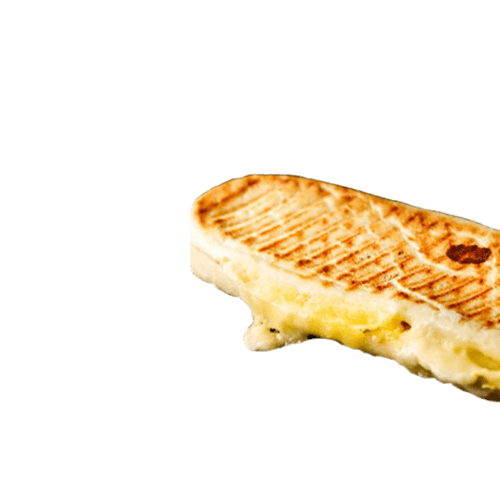
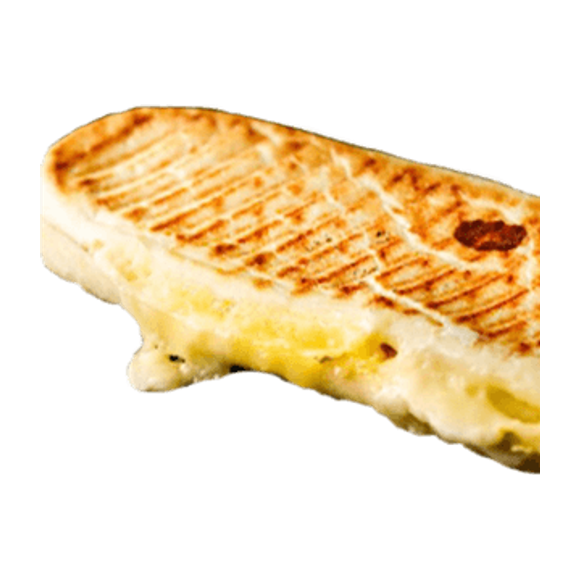
Commande fermée hors horaires (boutons grisés), carrousels centrés sans pause, squelettes de chargement, photo panini recentrée, mode test TEST_IGNORE_HOURS

diff --git a/app/src/app/globals.css b/app/src/app/globals.css
@@ -99,6 +99,8 @@ ul { margin: 0; padding: 0; list-style: none; }
 .btn--xl { min-height: 60px; padding: 0 28px; font-size: 1.6rem; border-radius: 12px; }
 .btn--block { width: 100%; }
 .btn[disabled], .btn[aria-disabled="true"], .btn.is-disabled { opacity: .45; pointer-events: none; }
+/* Bouton grisé sur fond noir (accueil) : reste lisible */
+.hero .btn.is-disabled { opacity: 1; color: rgba(255,255,255,.75); border-color: rgba(255,255,255,.3); background: rgba(255,255,255,.06); }
 .btn--text { font-family: var(--text); text-transform: none; letter-spacing: 0; font-weight: 600; font-size: 1rem; min-height: 44px; color: var(--red); }
 
 /* ---------- Bandeau de confiance ---------- */
@@ -1097,6 +1099,16 @@ body.is-locked { overflow: hidden; }
 .rail__btn--next { right: 0; }
 /* Écran tactile ou téléphone : on fait défiler au doigt, les flèches masqueraient les cartes */
 @media (hover: none), (max-width: 719px) { .rail__btn { display: none; } }
+/* Avec une souris : les flèches dans les marges, jamais sur les cartes, et les cartes centrées */
+@media (min-width: 720px) and (hover: hover) {
+  .rail.has-arrows { padding: 0 56px; }
+  .rail.has-arrows > .scroller, .rail.has-arrows > .offer-rail { margin: 0; padding-left: 0; padding-right: 0; scroll-padding-inline: 0; }
+  .rail.has-arrows > .scroller > *, .rail.has-arrows > .offer-rail > * { scroll-snap-align: center; }
+  .rail__btn { top: 50%; transform: translateY(-50%); }
+}
+.rail:not(.has-arrows) .rail__btn { display: none; }
+/* Un seul visuel : pleine largeur, pas de défilement */
+.offer-rail--single > * { flex-basis: 100% !important; }
 /* Burger seul / menu : deux prix côte à côte, plus petits pour tenir dans une carte étroite */
 .card__prices { display: flex; gap: 10px; min-width: 0; }
 .card__prices .price { font-size: 1.2rem; }
@@ -1345,3 +1357,21 @@ body.is-locked { overflow: hidden; }
 .nearest__item { display: grid; gap: 6px; align-content: start; }
 .nearest__dist { justify-self: start; font-size: .8rem; font-weight: 700; color: var(--ink-2); background: var(--white); border: 1px solid var(--grey-2); border-radius: 999px; padding: 3px 10px; }
 .nearest__dist.is-first { background: var(--black); color: #fff; border-color: var(--black); }
+
+/* ---------- Chargement : squelettes ---------- */
+.sr-only { position: absolute; width: 1px; height: 1px; padding: 0; margin: -1px; overflow: hidden; clip: rect(0 0 0 0); white-space: nowrap; border: 0; }
+.sk { display: inline-block; vertical-align: middle; background: linear-gradient(90deg, var(--grey-2) 0%, #f1f1ee 40%, var(--grey-2) 80%); background-size: 300% 100%; }
+@media (prefers-reduced-motion: no-preference) { .sk { animation: skShine 1.3s ease-in-out infinite; } }
+@keyframes skShine { from { background-position: 100% 0; } to { background-position: 0 0; } }
+.sk-wrap { max-width: var(--max); margin-inline: auto; display: grid; justify-items: start; }
+.sk-wrap > .sk-grid, .sk-wrap > .resto-grid { width: 100%; }
+.sk-grid { display: grid; grid-template-columns: repeat(2, 1fr); gap: 12px; }
+.sk-card { background: var(--white); border-radius: var(--radius); overflow: hidden; }
+.sk-panel { background: var(--white); border-radius: var(--radius); padding: 14px; display: grid; gap: 10px; }
+.sk-menu { padding: 16px var(--page-x) 0; display: grid; gap: 16px; }
+.sk-menu__side { display: none; }
+@media (min-width: 720px) { .sk-grid { grid-template-columns: repeat(3, 1fr); } }
+@media (min-width: 1024px) {
+  .sk-menu { max-width: 1320px; margin-inline: auto; grid-template-columns: 220px minmax(0, 1fr); gap: 24px; padding-top: 20px; }
+  .sk-menu__side { display: grid; gap: 10px; align-content: start; }
+}

diff --git a/app/src/components/site/Slides.tsx b/app/src/components/site/Slides.tsx
@@ -60,17 +60,16 @@ function Dots({ slides, index, onPick, label }: { slides: SlideView[]; index: nu
   );
 }
 
-/* Grand diaporama : défilement auto, swipe, pause au survol */
+/* Grand diaporama : défilement auto, swipe, pause au survol, au toucher et au focus clavier */
 export function PromoCarousel({ slides }: { slides: SlideView[] }) {
   const [i, setI] = useState(0);
   const [hover, setHover] = useState(false);
-  const [userPaused, setUserPaused] = useState(false);
   const reduce = useReducedMotion();
   const startX = useRef(0);
   const dragged = useRef(false);
   const count = slides.length;
   const index = count ? ((i % count) + count) % count : 0;
-  const paused = hover || userPaused;
+  const paused = hover; // pause au survol, au doigt et au clavier (le bouton pause a été retiré)
 
   useEffect(() => {
     if (paused || reduce || count < 2) return;
@@ -99,8 +98,9 @@ export function PromoCarousel({ slides }: { slides: SlideView[] }) {
     >
       <div
         className="stage__viewport"
-        onTouchStart={e => { startX.current = e.touches[0].clientX; dragged.current = false; }}
+        onTouchStart={e => { startX.current = e.touches[0].clientX; dragged.current = false; setHover(true); }}
         onTouchEnd={e => {
+          window.setTimeout(() => setHover(false), 5000); // reprend 5 s après le toucher
           const dx = e.changedTouches[0].clientX - startX.current;
           if (Math.abs(dx) < 48) return;
           dragged.current = true;
@@ -129,7 +129,6 @@ export function PromoCarousel({ slides }: { slides: SlideView[] }) {
           <button type="button" className="stage__nav" aria-label="Offre précédente" onClick={() => go(-1)}><Icon name="back" /></button>
           <Dots slides={slides} index={index} onPick={setI} label="Offres à l'affiche" />
           <button type="button" className="stage__nav" aria-label="Offre suivante" onClick={() => go(1)}><Icon name="chevron" /></button>
-          <button type="button" className="stage__pause" aria-pressed={userPaused} onClick={() => setUserPaused(v => !v)}>{userPaused ? 'Lecture' : 'Pause'}</button>
         </div>
       )}
       {count > 1 && !reduce && !paused && <div className="stage__progress" aria-hidden="true"><span key={index} /></div>}
@@ -180,10 +179,11 @@ export function PromoPanels({ slides }: { slides: SlideView[] }) {
     el.scrollBy({ left: dir * Math.max(220, el.clientWidth * 0.8), behavior });
   };
   if (!slides.length) return null;
+  const single = slides.length === 1; // un seul visuel : pas de carrousel
   return (
-    <div className="rail">
+    <div className={`rail ${single ? '' : 'has-arrows'}`}>
       <button type="button" className="rail__btn rail__btn--prev" aria-label="Offres précédentes" onClick={() => scroll(-1)}><Icon name="back" /></button>
-      <div className="offer-rail" ref={ref}>
+      <div className={`offer-rail ${single ? 'offer-rail--single' : ''}`} ref={ref}>
         {slides.map(s => (
           <SlideLink key={s.id} href={s.ctaHref} className={`offer tone-${s.tone.toLowerCase()} ${s.imageUrl ? 'offer--photo' : ''}`}>
             {s.imageUrl && <img className="offer__img" src={s.imageUrl} alt="" />}

diff --git a/app/src/components/checkout/Checkout.tsx b/app/src/components/checkout/Checkout.tsx
@@ -126,7 +126,8 @@ export function Checkout({ step, ctx }: { step: Step; ctx: CheckoutContext }) {
   const blocking = quote?.errors ?? [];
   const zoneMissing = effectiveMode === 'LIVRAISON' && !zone;
   const minMissing = quote?.totals.minimumMissing ?? 0;
-  const canContinue = !!quote && !loading && !blocking.length && ctx.orderingEnabled;
+  // Hors horaires, la commande est fermée (CDC) : le bouton de paiement est grisé
+  const canContinue = !!quote && !loading && !blocking.length && ctx.orderingEnabled && win?.status.open !== false;
   const total = quote?.totals.total ?? cart.subtotal;
 
   const modePanel = (
@@ -233,7 +234,7 @@ export function Checkout({ step, ctx }: { step: Step; ctx: CheckoutContext }) {
       setErrors(e);
       const bad = Object.entries(e).find(([, v]) => v);
       if (bad) { toast('Vérifiez les champs en rouge'); document.querySelector<HTMLElement>('.field.is-invalid input, .field.is-invalid select')?.focus(); return false; }
-      if (!win?.status.open && checkout.slot === 'asap') { toast('Le restaurant est fermé, choisissez un créneau'); return false; }
+      if (!win?.status.open) { toast('Le restaurant est fermé : les commandes en ligne reprennent à l\'ouverture.'); return false; }
       return true;
     };
     const field = (k: keyof CheckoutInfo) => ({ value: checkout[k] as string, onChange: (e: React.ChangeEvent<HTMLInputElement | HTMLTextAreaElement>) => { updateCheckout({ [k]: e.target.value }); if (errors[k]) setErrors(x => ({ ...x, [k]: false })); } });
@@ -272,7 +273,7 @@ export function Checkout({ step, ctx }: { step: Step; ctx: CheckoutContext }) {
                 ))}
               </div>
             )}
-            {win && !win.status.open && <p className="mode-note"><Icon name="clock" /><span>{win.status.label}. {win.slots.length ? 'Vous pouvez précommander pour plus tard.' : 'Les commandes rouvrent à l\'ouverture.'}</span></p>}
+            {win && !win.status.open && <p className="alert alert--error" style={{ marginTop: 0 }}><Icon name="clock" /><span>{win.status.label}. Les commandes en ligne reprennent à l&apos;ouverture.</span></p>}
           </div>
 
           {effectiveMode === 'LIVRAISON' && (

diff --git a/app/src/lib/hours.ts b/app/src/lib/hours.ts
@@ -36,7 +36,14 @@ export interface OpenStatus {
   label: string;
 }
 
+/* Tests hors horaires : TEST_IGNORE_HOURS=1 (fichier .env.local) ouvre tous les restaurants.
+   Actif seulement avec une clé Stripe de test, jamais sur le site en production réelle. */
+export function hoursIgnoredForTests(): boolean {
+  return typeof window === 'undefined' && process.env.TEST_IGNORE_HOURS === '1' && !!process.env.STRIPE_SECRET_KEY?.startsWith('sk_test_');
+}
+
 export function openStatus(hours: DayHours[], now: Date = new Date()): OpenStatus {
+  if (hoursIgnoredForTests()) return { open: true, label: 'Ouvert (mode test, horaires ignorés)' };
   const { day, minutes } = parisClock(now);
   const today = hours.find(h => h.dayOfWeek === day);
   if (today?.isOpen) {
@@ -54,7 +61,7 @@ export function openStatus(hours: DayHours[], now: Date = new Date()): OpenStatu
 /* Créneaux du jour (heure de Paris, "HH:MM"), à partir de maintenant + délai de préparation */
 export function timeSlots(hours: DayHours[], leadMinutes: number, interval = 15, now: Date = new Date(), limit = 12): string[] {
   const { day, minutes } = parisClock(now);
-  const today = hours.find(h => h.dayOfWeek === day);
+  const today = hoursIgnoredForTests() ? { isOpen: true, open: '00:00', close: '00:00' } : hours.find(h => h.dayOfWeek === day);
   if (!today?.isOpen) return [];
   const o = toMinutes(today.open), c = toMinutes(today.close, true);
   let start = Math.ceil((minutes + leadMinutes) / interval) * interval;

diff --git a/app/src/components/restaurants/RestaurantCard.tsx b/app/src/components/restaurants/RestaurantCard.tsx
@@ -17,9 +17,12 @@ export function RestaurantCard({ r, current, next }: { r: RestaurantWithHours; c
       <p className="resto-card__addr"><Icon name="pin" /> {r.addressLine1}, {r.postalCode} {r.city}</p>
       <p className="resto-card__hours"><Icon name="clock" /> Aujourd&apos;hui : {today?.isOpen ? `${hmLabel(today.open)} à ${hmLabel(today.close)}` : 'fermé'}</p>
       <div className="actions-row">
-        {r.orderingEnabled
-          ? <Link className="btn btn--primary" href={order} prefetch={false}>{current ? 'Continuer ici' : 'Commander ici'}</Link>
-          : <span className="btn btn--ghost is-disabled" aria-disabled="true">Commande en ligne bientôt</span>}
+        {!r.orderingEnabled
+          ? <span className="btn btn--ghost is-disabled" aria-disabled="true">Commande en ligne bientôt</span>
+          : !status.open
+            // Hors horaires : commande fermée (CDC), bouton grisé avec l'heure de réouverture
+            ? <span className="btn btn--ghost is-disabled" aria-disabled="true">{status.label}</span>
+            : <Link className="btn btn--primary" href={order} prefetch={false}>{current ? 'Continuer ici' : 'Commander ici'}</Link>}
         <Link className="btn btn--dark" href={`/restaurants/${r.slug}`}>Infos et accès</Link>
       </div>
       {current && <span className="resto-card__current">Votre restaurant</span>}

diff --git a/app/src/app/(site)/restaurants/[slug]/page.tsx b/app/src/app/(site)/restaurants/[slug]/page.tsx
@@ -40,9 +40,11 @@ export default async function RestaurantPage({ params }: { params: Promise<{ slu
           {r.intro || `Tacos à composer, burgers, pizzas (1 achetée = 1 offerte), bowls et Crousty Fox, préparés au ${r.addressLine1} à ${r.city}. Commandez en ligne, payez par carte et récupérez votre commande au créneau choisi.`}
         </p>
         <div className="actions-row" style={{ maxWidth: 'var(--max)', marginInline: 'auto', marginTop: 14 }}>
-          {r.orderingEnabled
-            ? <Link className="btn btn--primary btn--xl" href={`/r/${r.slug}`} prefetch={false}>Commander à {r.city}</Link>
-            : <span className="btn btn--ghost is-disabled" aria-disabled="true">Commande en ligne bientôt disponible</span>}
+          {!r.orderingEnabled
+            ? <span className="btn btn--ghost btn--xl is-disabled" aria-disabled="true">Commande en ligne bientôt disponible</span>
+            : !status.open
+              ? <span className="btn btn--ghost btn--xl is-disabled" aria-disabled="true">{status.label}</span>
+              : <Link className="btn btn--primary btn--xl" href={`/r/${r.slug}`} prefetch={false}>Commander à {r.city}</Link>}
           <Link className="btn btn--ghost btn--xl" href="/restaurants">Changer de restaurant</Link>
         </div>
       </section>

diff --git a/app/src/components/ui/Skeleton.tsx b/app/src/components/ui/Skeleton.tsx
@@ -1,0 +1,29 @@
+/* Squelettes de chargement : blocs gris animés à la forme du contenu attendu.
+   Annoncés aux lecteurs d'écran par un seul « Chargement… » (role="status"). */
+
+export function Sk({ w = '100%', h = 16, r = 8, style }: { w?: number | string; h?: number | string; r?: number; style?: React.CSSProperties }) {
+  return <span className="sk" style={{ width: w, height: h, borderRadius: r, ...style }} aria-hidden="true" />;
+}
+
+export function Loading({ label = 'Chargement…', children }: { label?: string; children: React.ReactNode }) {
+  return (
+    <div className="page sk-page" role="status" aria-live="polite" aria-busy="true">
+      <span className="sr-only">{label}</span>
+      {children}
+    </div>
+  );
+}
+
+/* Carte de plat en cours de chargement */
+export function SkCard() {
+  return (
+    <div className="sk-card" aria-hidden="true">
+      <Sk h="auto" r={0} style={{ aspectRatio: '1 / 1', display: 'block' }} />
+      <div style={{ padding: 12, display: 'grid', gap: 8 }}>
+        <Sk w="70%" h={20} />
+        <Sk w="90%" h={12} />
+        <div style={{ display: 'flex', justifyContent: 'space-between', alignItems: 'center', marginTop: 6 }}><Sk w={70} h={22} /><Sk w={44} h={44} r={12} /></div>
+      </div>
+    </div>
+  );
+}

diff --git a/app/src/app/(site)/page.tsx b/app/src/app/(site)/page.tsx
@@ -37,7 +37,10 @@ export default async function HomePage() {
             <h1 className="hero__title">La meilleure excuse pour <em>ne pas cuisiner</em> ce soir</h1>
             <p className="hero__text">Tacos, burgers, pizzas, bowls et Crousty Fox. Commandez en ligne dans l&apos;un de nos {restaurants.length} restaurants (Stains, Dugny, Le Blanc-Mesnil) et passez la récupérer à l&apos;heure choisie.</p>
             <div className="hero__cta">
-              <Link className="btn btn--primary btn--xl" href="/carte">Commander</Link>
+              {/* Restaurant choisi fermé : bouton grisé (la carte reste consultable dans le menu) */}
+              {current && status && !status.open
+                ? <span className="btn btn--ghost btn--xl is-disabled" aria-disabled="true">Fermé pour le moment</span>
+                : <Link className="btn btn--primary btn--xl" href="/carte">Commander</Link>}
               {current && status && <div className="hero__sub"><span className={`dot ${status.open ? '' : 'is-closed'}`} />{restaurantTitle(current)} : {status.label}</div>}
             </div>
             <ul className="hero__facts">

diff --git a/app/src/app/(site)/restaurants/loading.tsx b/app/src/app/(site)/restaurants/loading.tsx
@@ -1,0 +1,25 @@
+import { Loading, Sk } from '@/components/ui/Skeleton';
+
+/* Chargement de la liste des restaurants et des pages restaurant */
+export default function RestaurantsLoading() {
+  return (
+    <Loading label="Chargement des restaurants…">
+      <section className="section">
+        <div className="sk-wrap">
+          <Sk w={140} h={12} />
+          <Sk w="55%" h={44} style={{ marginTop: 10 }} />
+          <Sk w={220} h={44} r={12} style={{ marginTop: 18 }} />
+          <div className="resto-grid" style={{ marginTop: 16 }}>
+            {Array.from({ length: 5 }, (_, i) => (
+              <div key={i} className="sk-panel" aria-hidden="true">
+                <div style={{ display: 'flex', justifyContent: 'space-between' }}><Sk w="55%" h={20} /><Sk w={110} h={22} r={999} /></div>
+                <Sk w="80%" h={14} /><Sk w="50%" h={14} />
+                <div style={{ display: 'grid', gridTemplateColumns: '1fr 1fr', gap: 10, marginTop: 4 }}><Sk h={48} r={12} /><Sk h={48} r={12} /></div>
+              </div>
+            ))}
+          </div>
+        </div>
+      </section>
+    </Loading>
+  );
+}

diff --git a/app/src/app/(admin)/admin/loading.tsx b/app/src/app/(admin)/admin/loading.tsx
@@ -1,0 +1,22 @@
+import { Sk } from '@/components/ui/Skeleton';
+
+/* Chargement de la gestion (écran cuisine en 3 colonnes) */
+export default function AdminLoading() {
+  return (
+    <div role="status" aria-live="polite" aria-busy="true">
+      <span className="sr-only">Chargement…</span>
+      <div style={{ display: 'flex', justifyContent: 'space-between', alignItems: 'center', marginBottom: 16 }}>
+        <div style={{ display: 'grid', gap: 8 }}><Sk w={200} h={34} /><Sk w={260} h={14} /></div>
+        <Sk w={160} h={38} r={10} />
+      </div>
+      <div className="board" aria-hidden="true">
+        {[0, 1, 2].map(c => (
+          <section key={c} className="board__col">
+            <Sk w="45%" h={22} style={{ margin: '4px 6px 12px' }} />
+            {[0, 1].map(i => <div key={i} className="sk-panel" style={{ marginBottom: 10 }}><Sk w="40%" h={24} /><Sk w="30%" h={30} /><Sk w="80%" h={14} /><Sk w="60%" h={14} /><div style={{ display: 'flex', gap: 8 }}><Sk w={90} h={40} r={10} /><Sk w={80} h={40} r={10} /></div></div>)}
+          </section>
+        ))}
+      </div>
+    </div>
+  );
+}

diff --git a/app/src/lib/restaurants.ts b/app/src/lib/restaurants.ts
@@ -51,14 +51,16 @@ export async function availableModes(): Promise<Mode[]> {
   return modes;
 }
 
-/* Fenêtre de commande d'un restaurant : ouvert maintenant, créneaux du jour, délai */
+/* Fenêtre de commande d'un restaurant : ouvert maintenant, créneaux du jour, délai.
+   CDC : hors horaires, la commande est fermée pour ce restaurant (pas de précommande). */
 export async function restaurantWindow(r: RestaurantWithHours, mode: Mode) {
   const settings = await getSettings();
   const lead = mode === 'LIVRAISON' ? settings.deliveryMinutes : r.prepMinutes;
+  const status = openStatus(r.hours);
   return {
     enabled: acceptsOrders(r) && settings.orderingEnabled,
-    status: openStatus(r.hours),
-    slots: timeSlots(r.hours, lead, r.slotInterval),
+    status,
+    slots: status.open ? timeSlots(r.hours, lead, r.slotInterval) : [],
     lead,
   };
 }

diff --git a/app/src/app/(site)/carte/loading.tsx b/app/src/app/(site)/carte/loading.tsx
@@ -1,0 +1,19 @@
+import { Loading, Sk, SkCard } from '@/components/ui/Skeleton';
+
+/* Chargement de la carte : catégories à gauche, plats en grille, panier à droite (ordinateur) */
+export default function CarteLoading() {
+  return (
+    <Loading label="Chargement de la carte…">
+      <div className="sk-menu">
+        <aside className="sk-menu__side" aria-hidden="true">
+          <Sk h={44} r={12} />
+          <div className="sk-panel">{Array.from({ length: 9 }, (_, i) => <div key={i} style={{ display: 'flex', gap: 10, alignItems: 'center' }}><Sk w={36} h={36} r={8} /><Sk w="60%" h={16} /></div>)}</div>
+        </aside>
+        <div>
+          <Sk h={150} r={16} />
+          <div className="sk-grid" style={{ marginTop: 16 }}>{Array.from({ length: 6 }, (_, i) => <SkCard key={i} />)}</div>
+        </div>
+      </div>
+    </Loading>
+  );
+}
